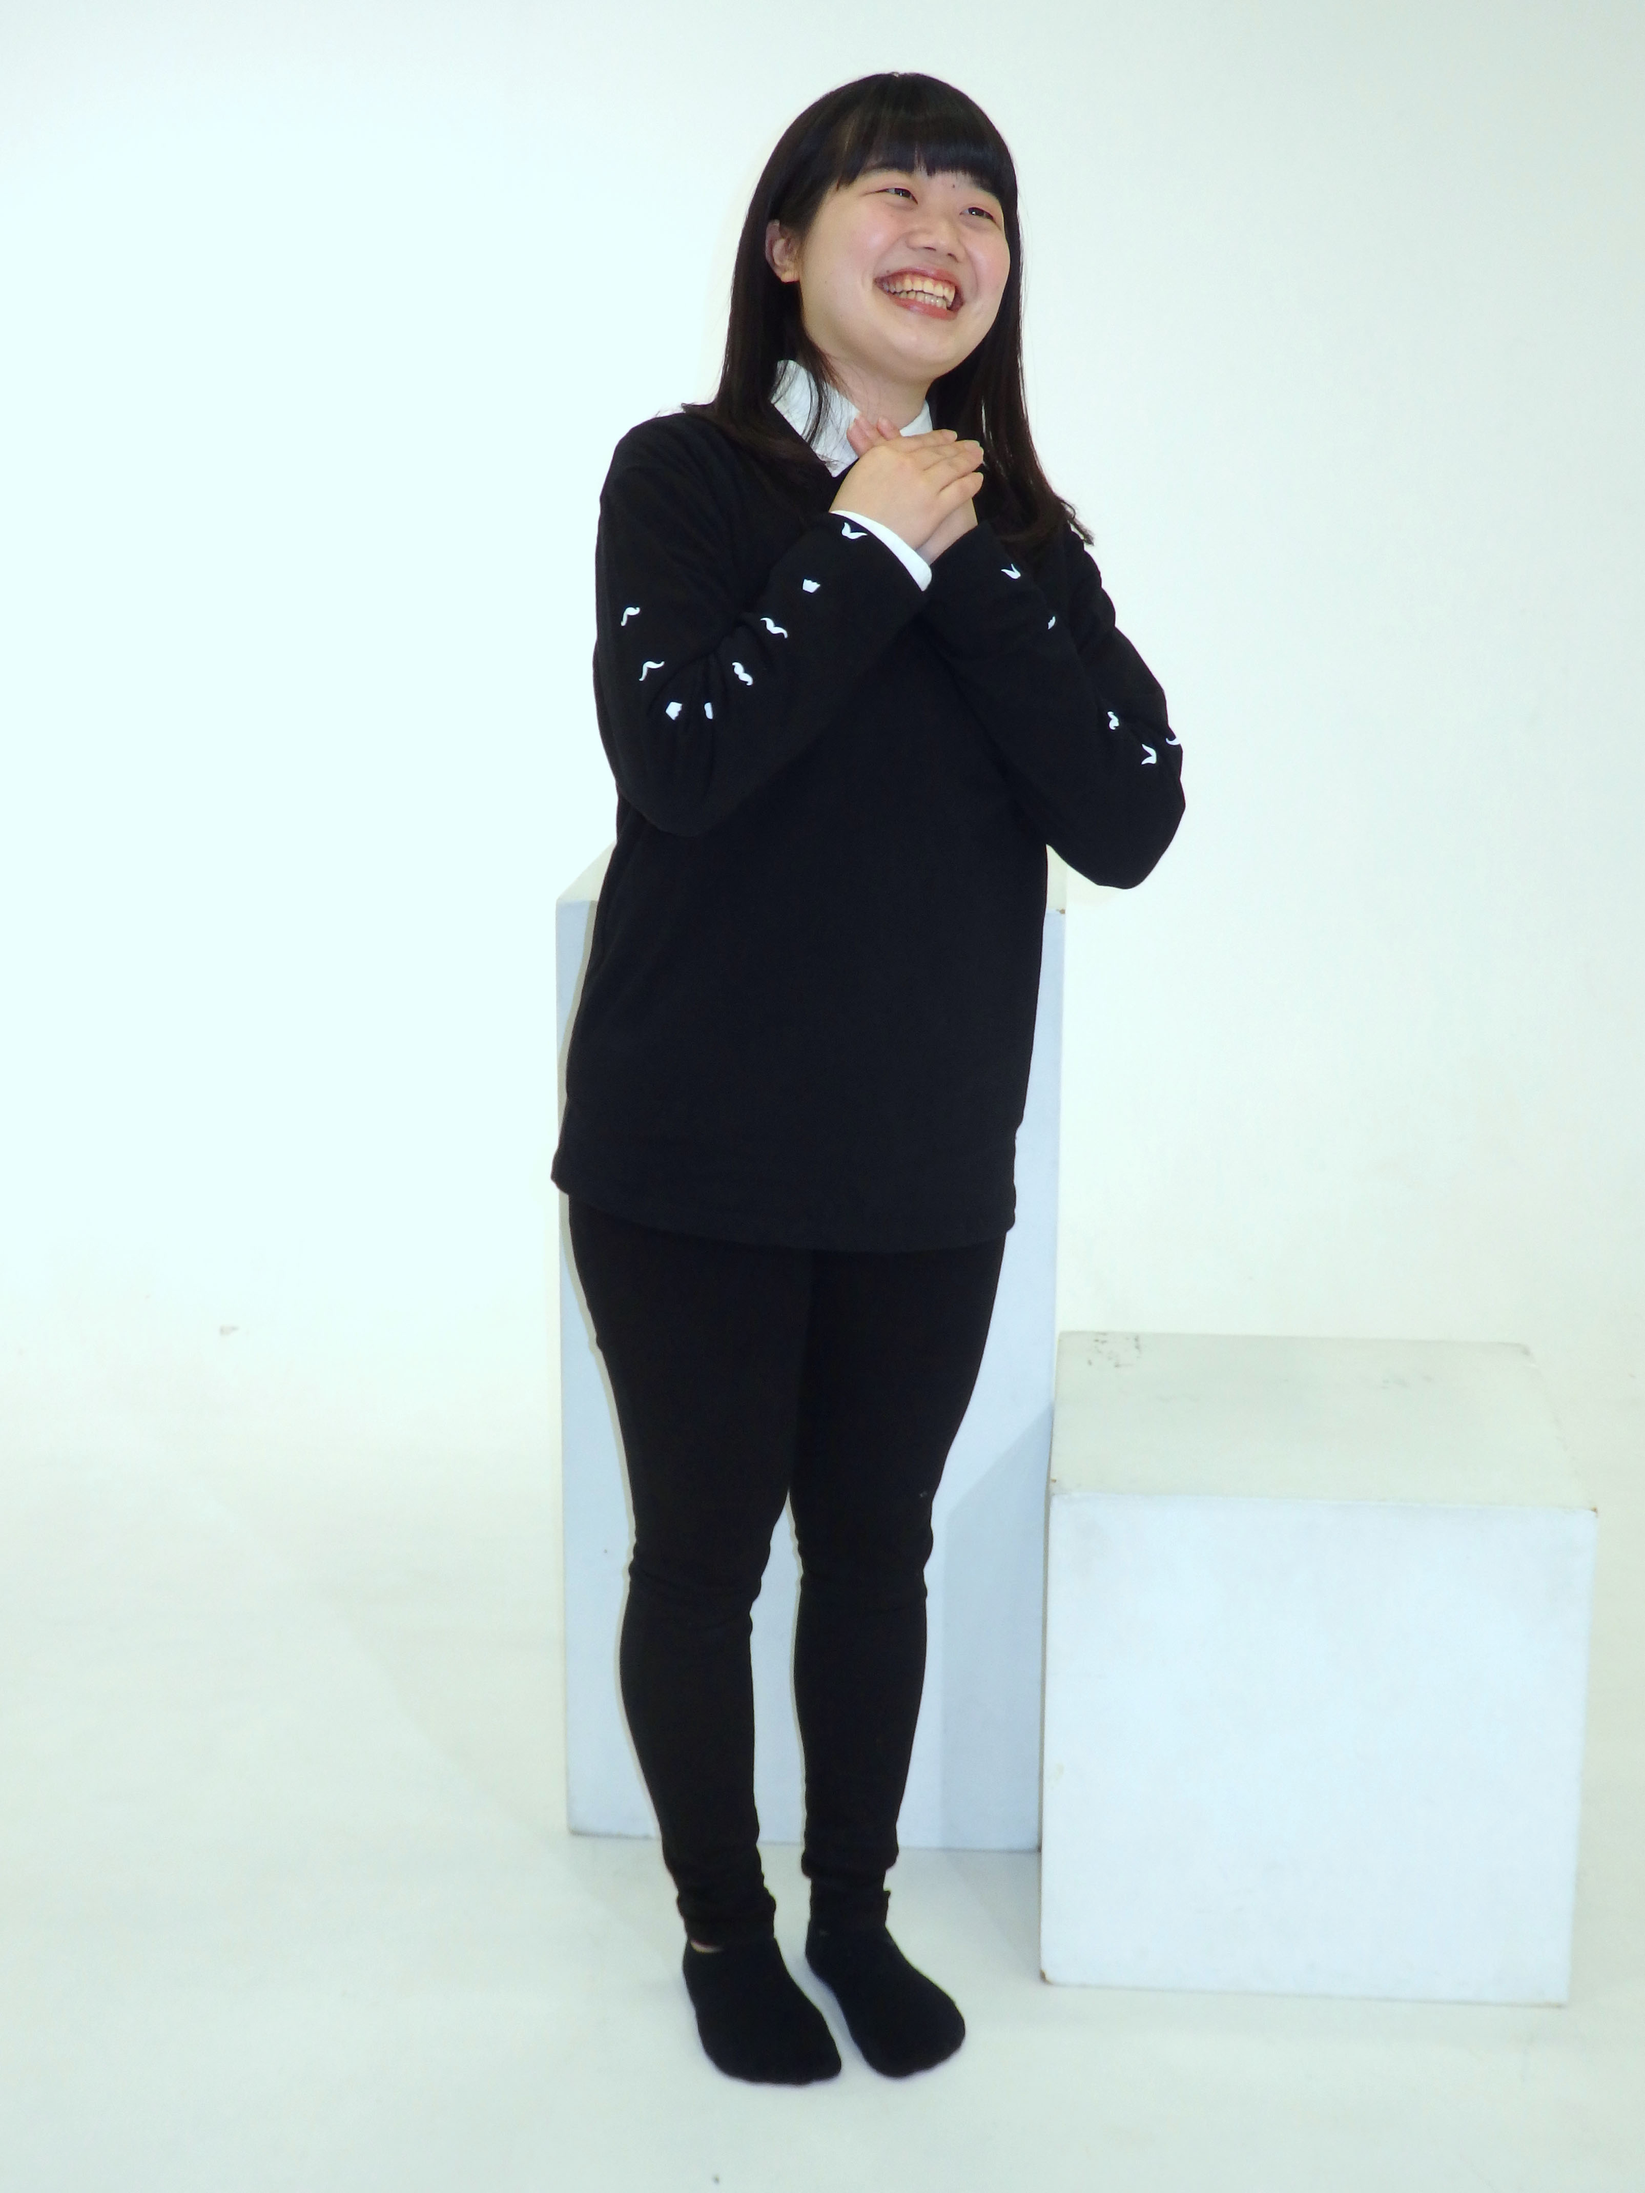
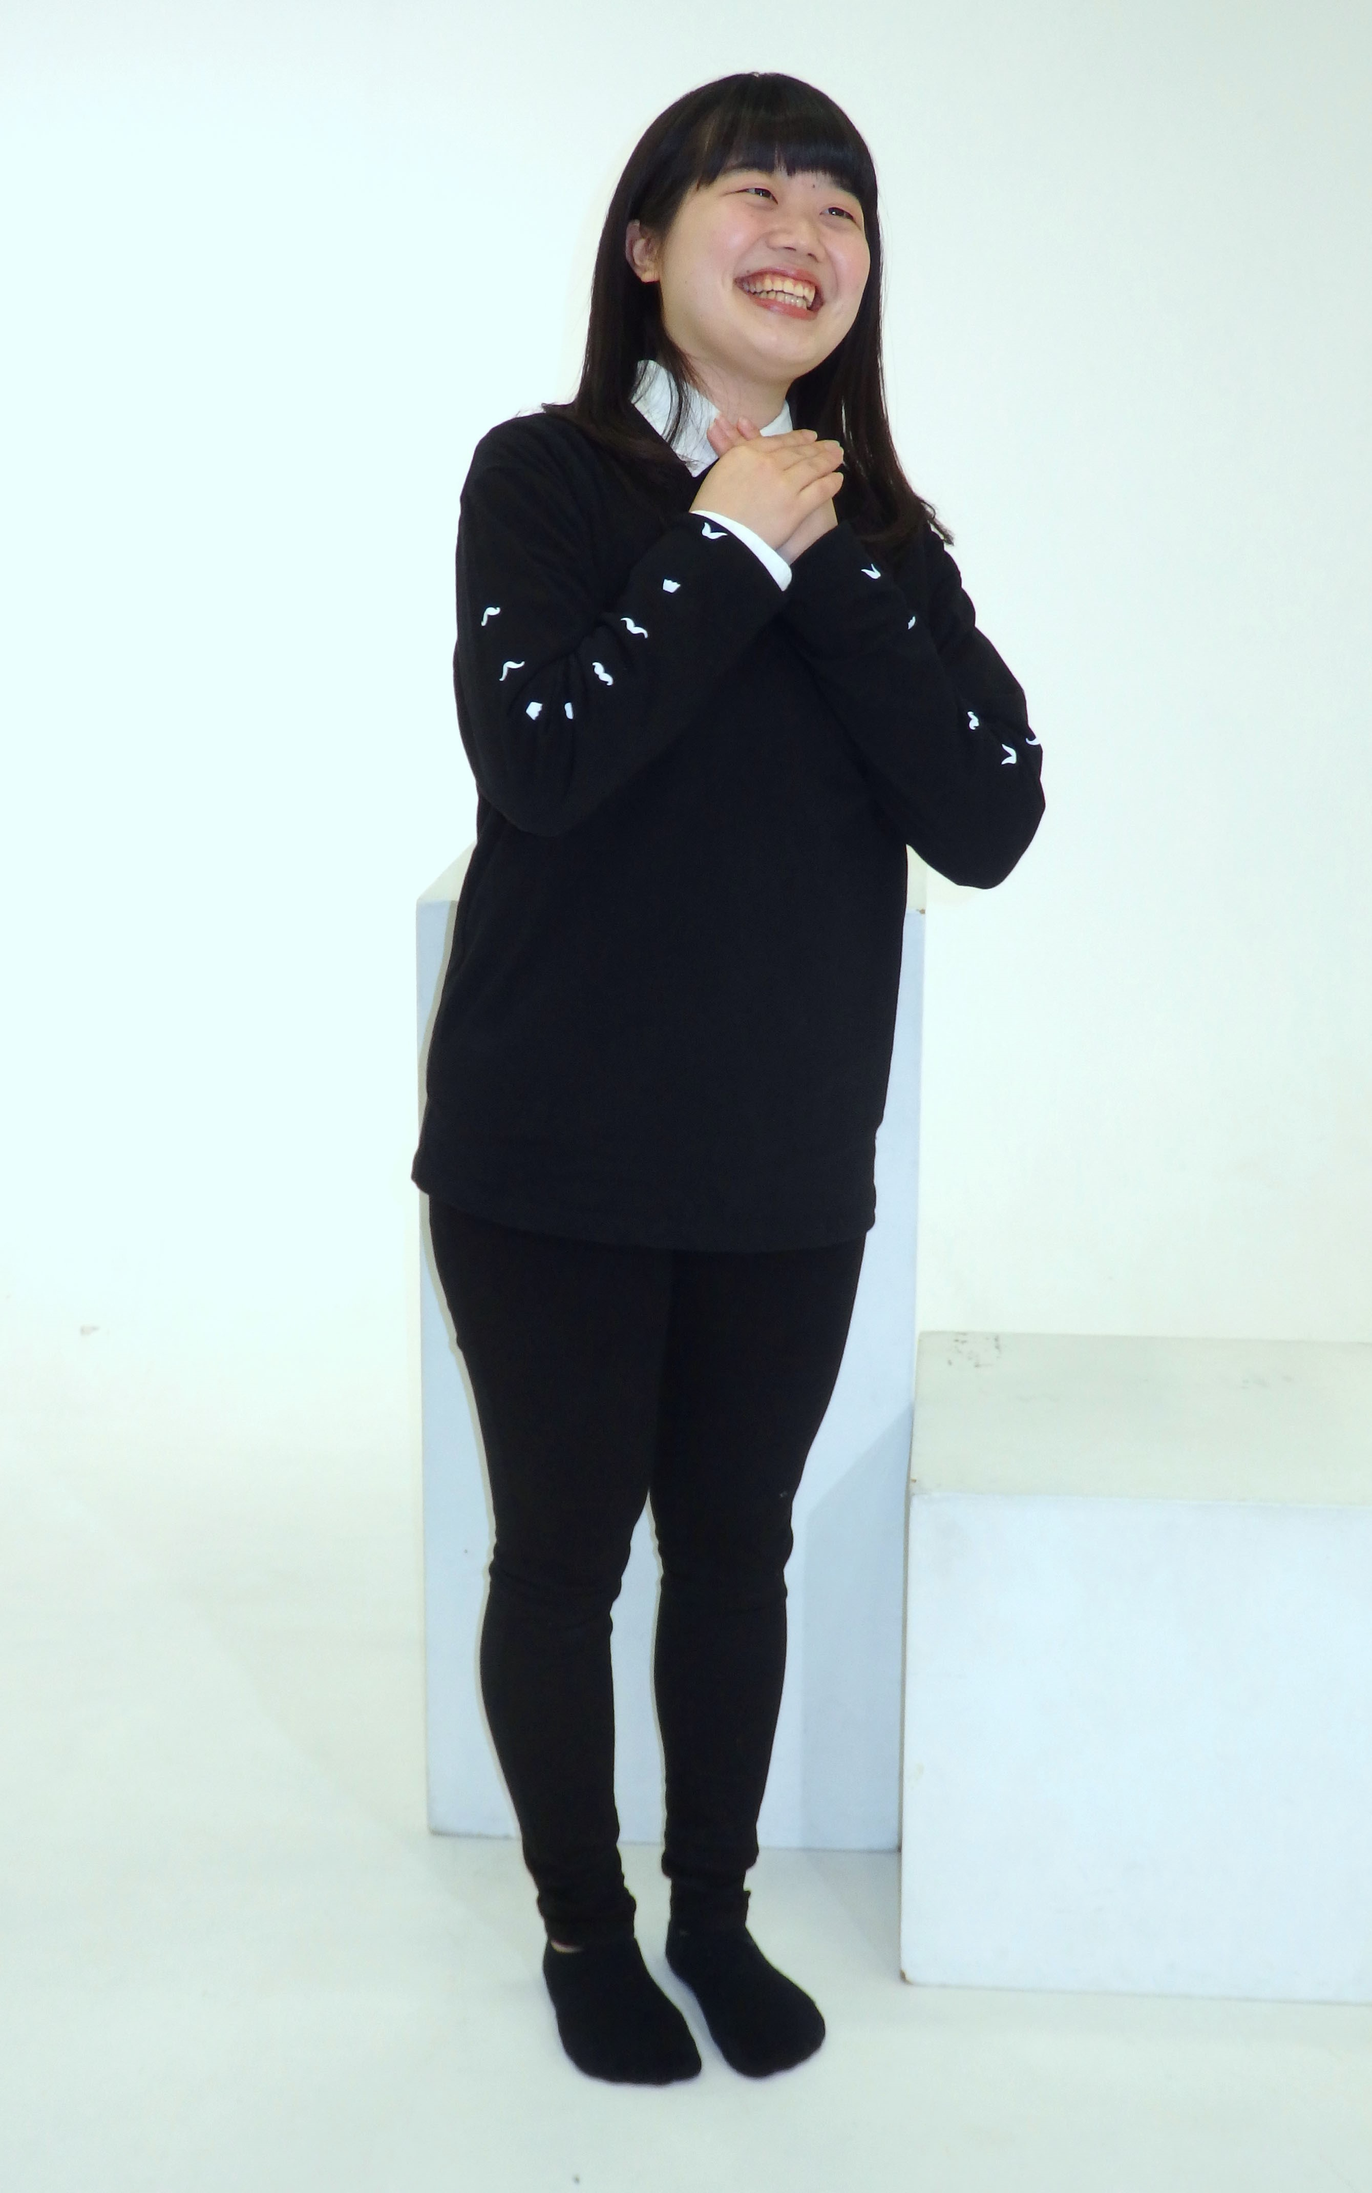
tate

diff --git a/top.html b/top.html
@@ -1010,21 +1010,21 @@
 					<p class="sms">阿波弁女子じゃけん</p>
 				</div>
 			</div>
-			<div class="muu1">
-				<img src="images/photos/muu1.jpg" class="yoko">
+			<div class="bosa1">
+				<img src="images/photos/bosa1.jpg" class="tate">
 				<img src="images/backB.png" class="backB">
 				<p class="classH">class O</p>
-				<div class="prof">
+				<div class="profT">
 					<p>菩薩</p>
 					<p>生熊　紗帆</p>
 					<p class="sms">阿波弁女子じゃけん</p>
 				</div>
 			</div>
-			<div class="muu1">
-				<img src="images/photos/muu1.jpg" class="yoko">
+			<div class="pasu1">
+				<img src="images/photos/pasu1.jpg" class="tate">
 				<img src="images/backB.png" class="backB">
 				<p class="classH">class O</p>
-				<div class="prof">
+				<div class="profT">
 					<p>パスカル</p>
 					<p>西田　実納</p>
 					<p class="sms">阿波弁女子じゃけん</p>
